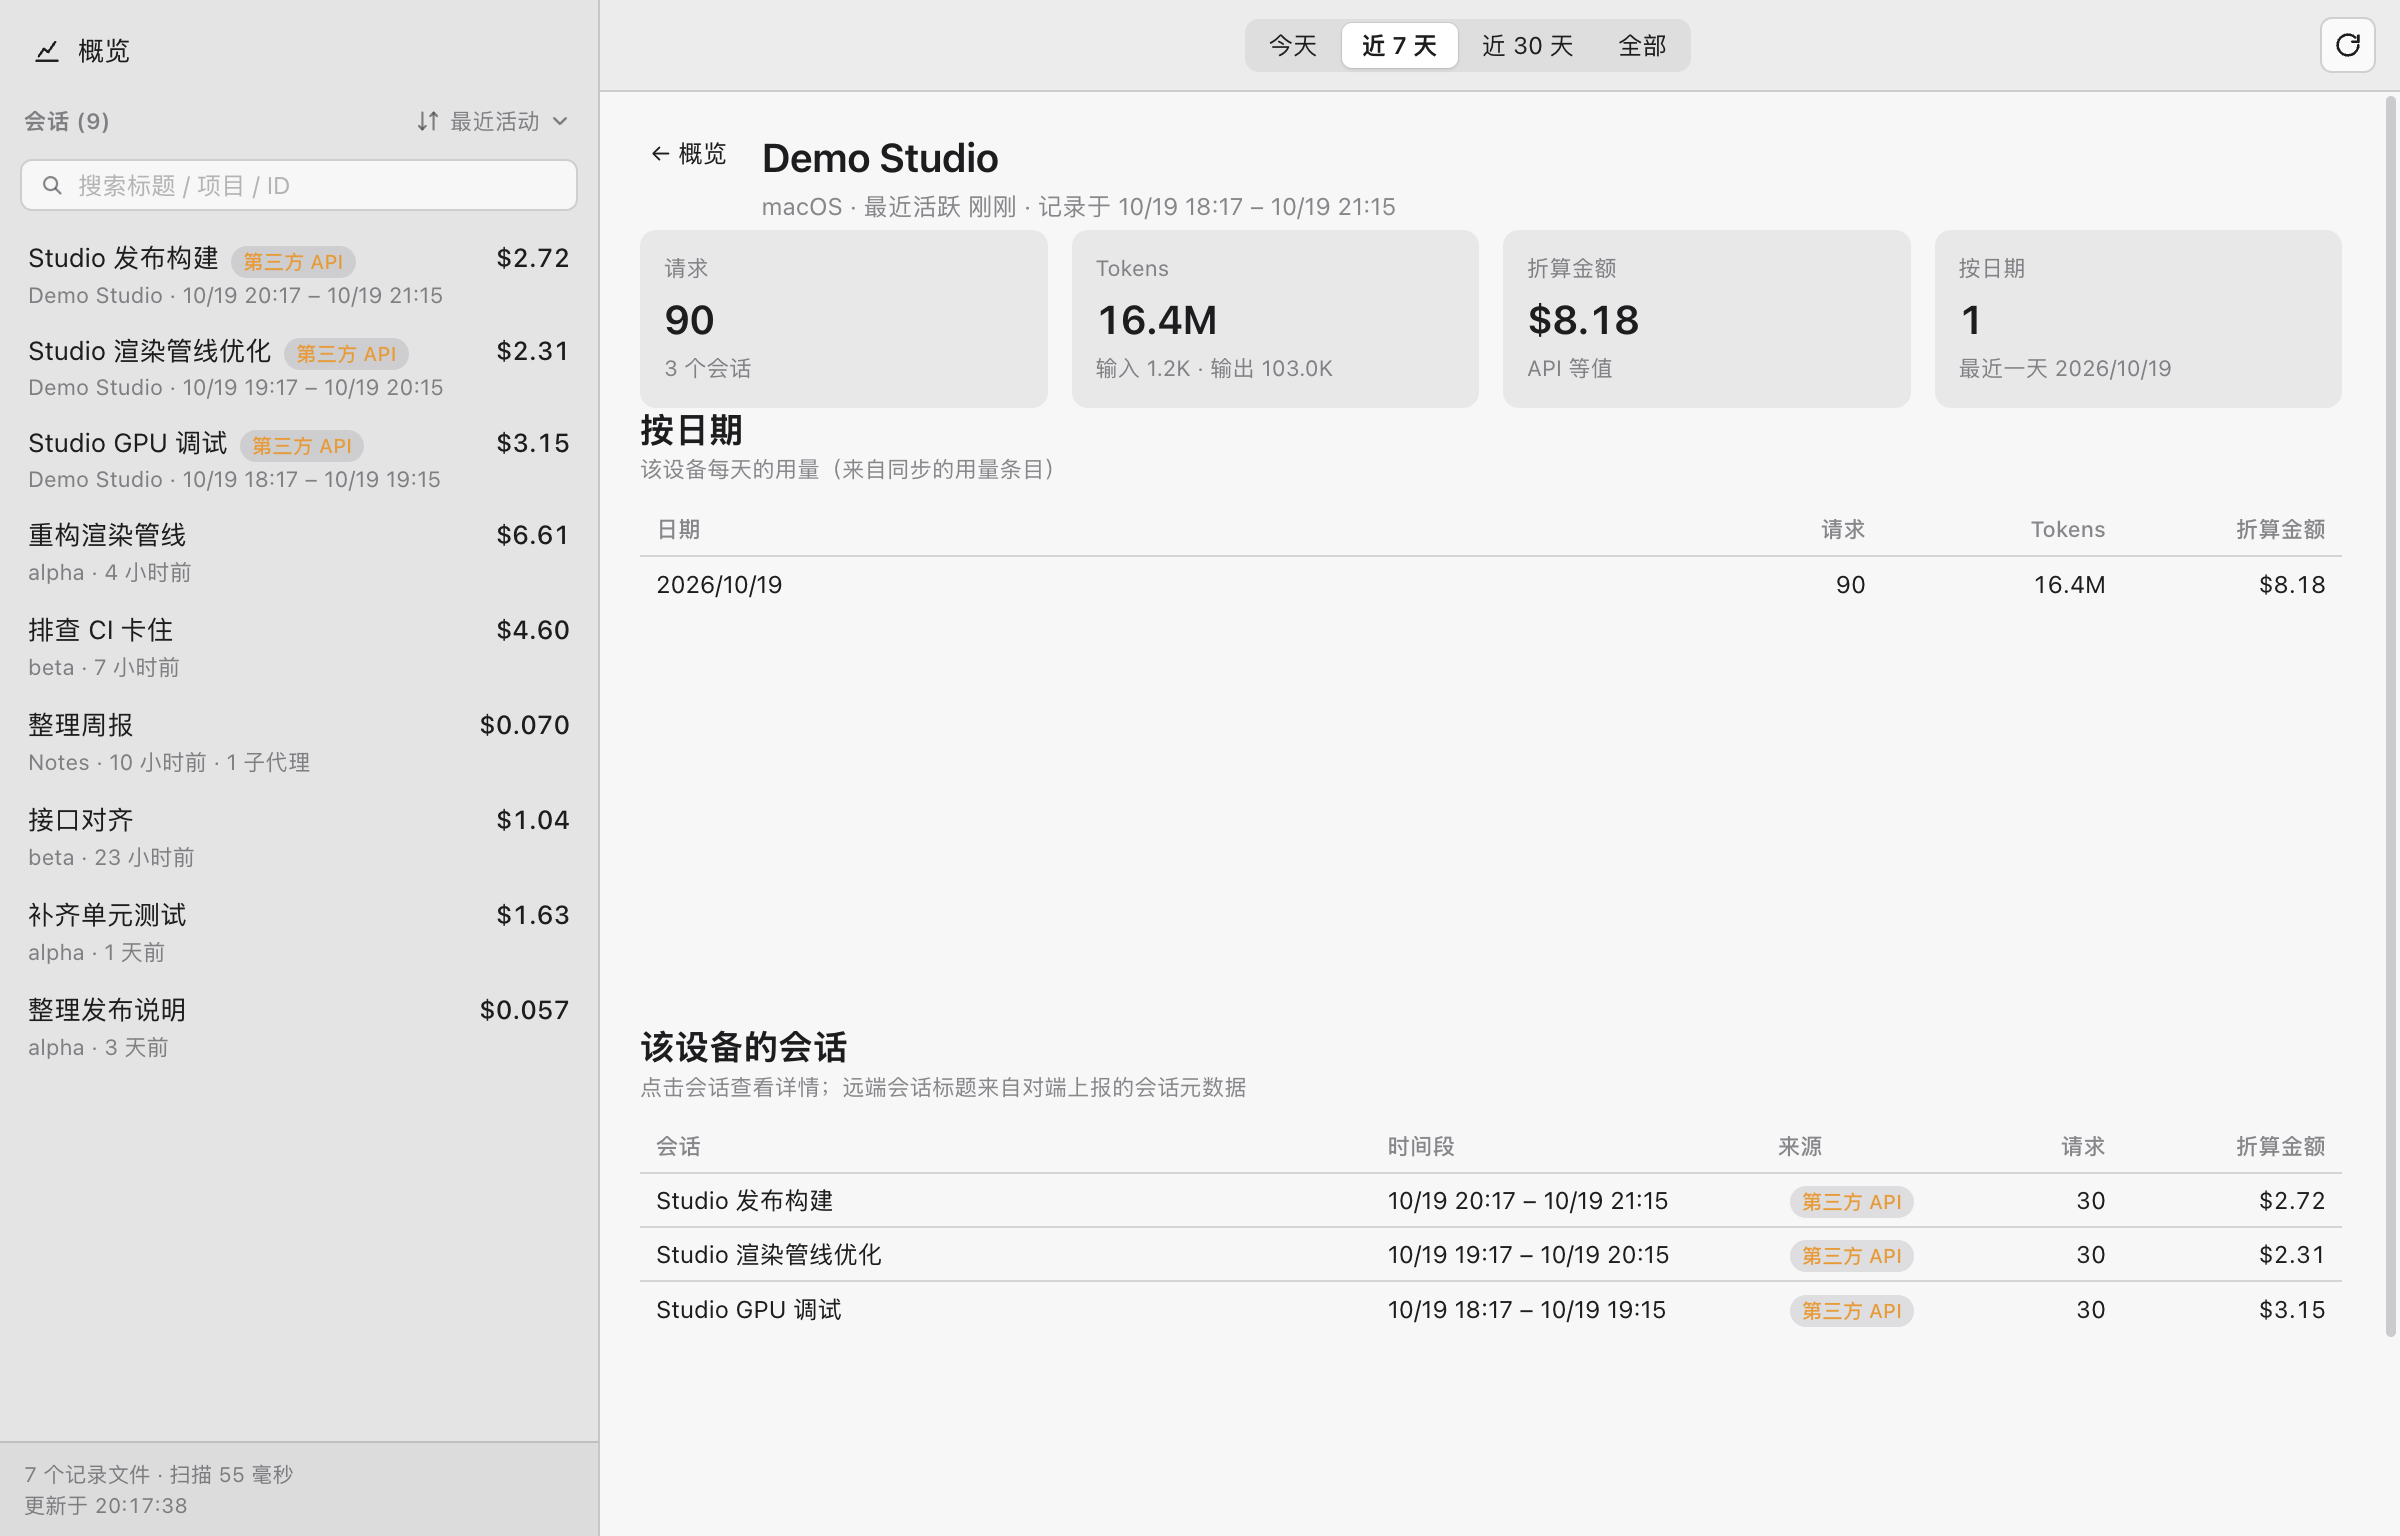
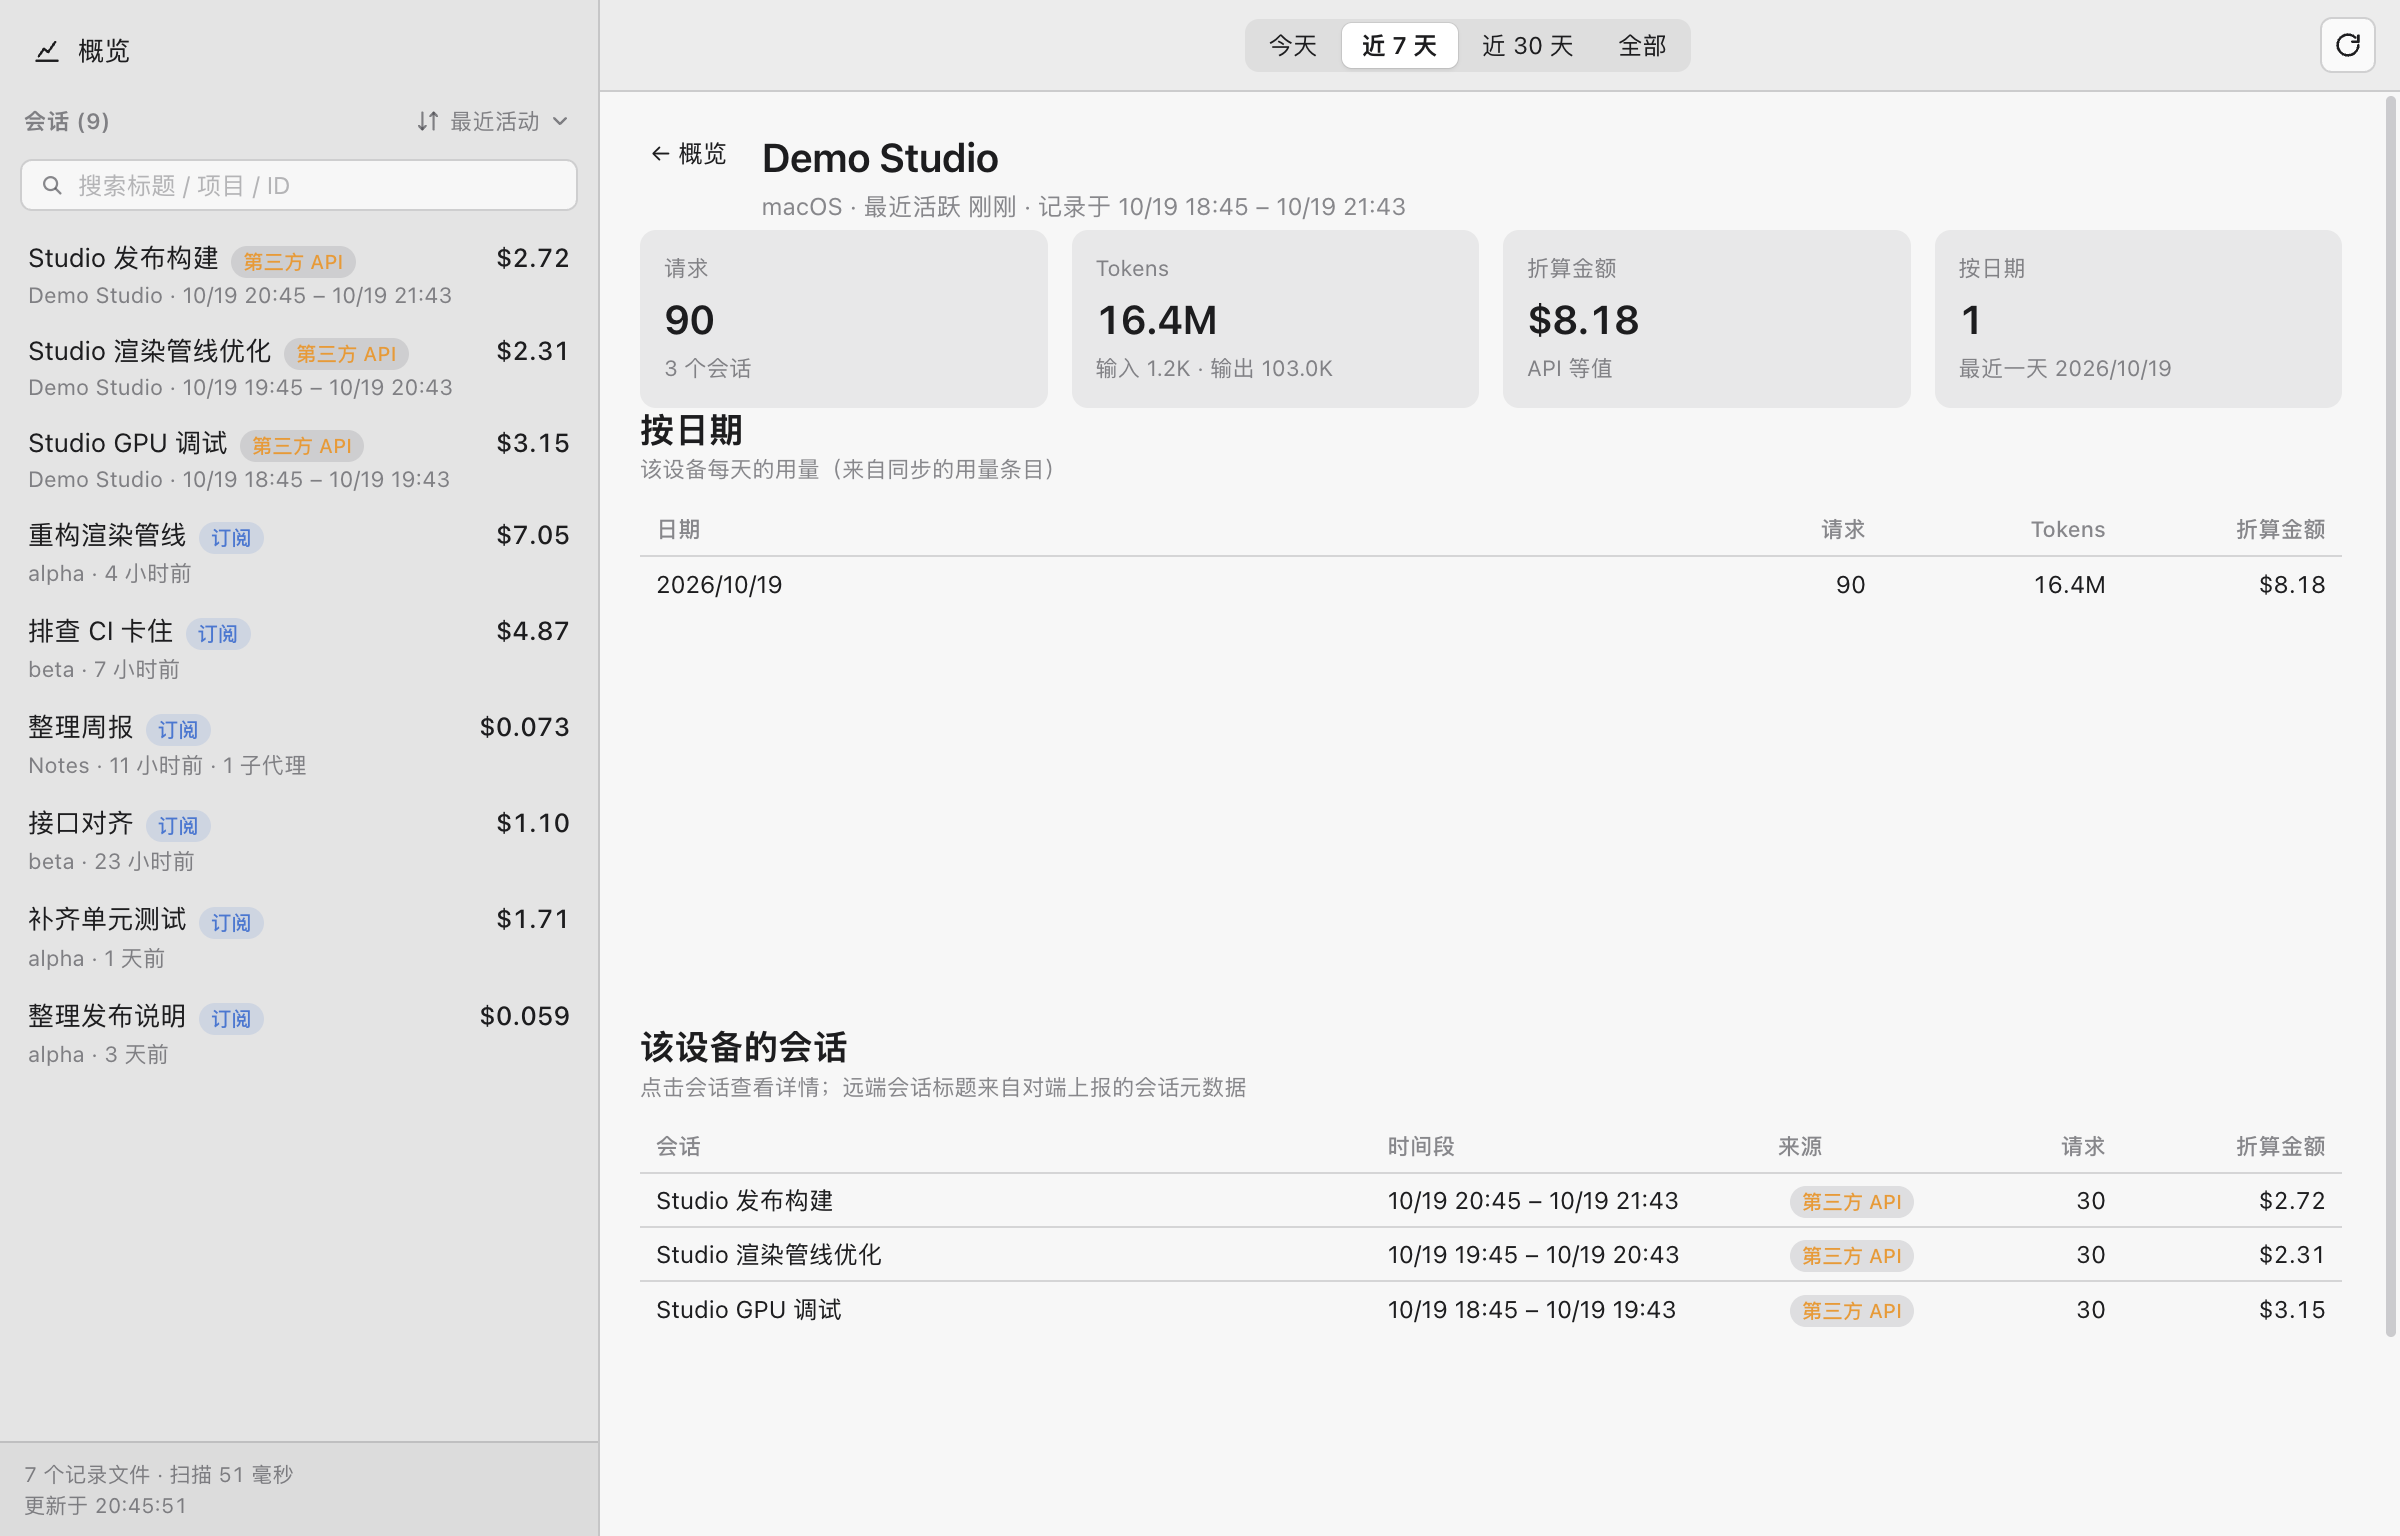
fix: restore missing authHints fields (2.4.0 scan crash) and local session authMode

diff --git a/scripts/demo-fixtures.ts b/scripts/demo-fixtures.ts
@@ -39,13 +39,14 @@ interface UsageShape {
 function usageFor(model: string, index: number, rnd: () => number): UsageShape {
   const big = model.includes("opus") ? 1.6 : model.includes("sonnet") ? 1 : 0.5;
   const cacheRead = Math.floor((80_000 + rnd() * 160_000) * big);
+  // Demo local sessions mimic the real subscription path: 1h prompt cache only.
   const cacheWrite = Math.floor((2_000 + rnd() * 9_000) * big);
-  const write1h = Math.floor(cacheWrite * 0.7);
+  const write1h = cacheWrite;
   return {
     input: 4 + Math.floor(rnd() * 20),
     output: 300 + Math.floor(rnd() * 1_400),
     cacheRead,
-    cacheWrite5m: cacheWrite - write1h,
+    cacheWrite5m: 0,
     cacheWrite1h: write1h,
   };
 }

diff --git a/apps/desktop/src/main/index.ts b/apps/desktop/src/main/index.ts
@@ -132,6 +132,9 @@ class AppController {
   private mergedCache:
     | { local: UsageSnapshot; remoteEntries: readonly unknown[]; deviceNames: ReadonlyMap<string, string>; snapshot: UsageSnapshot }
     | undefined;
+  /** Authoritative auth source per session, reported by the mod running inside Claude Code. */
+  private readonly authHints = new Map<string, BridgeAuthFingerprint & { at: number }>();
+  private authHintsSaveTimer: NodeJS.Timeout | undefined;
 
   constructor() {
     this.appVersion = readAppVersion();

diff --git a/packages/core/src/aggregation.ts b/packages/core/src/aggregation.ts
@@ -164,6 +164,7 @@ export function buildSnapshot(
       requestCount: entries.length,
       subagentCount: subagents.get(sessionId)?.size ?? 0,
       hasUnpricedRequests: unpriced,
+      authMode: classifySessionAuth(entries),
       ...(recordedCosts[sessionId] !== undefined ? { recordedCost: recordedCosts[sessionId] } : {})
     });
   }

diff --git a/docs/STATUS.md b/docs/STATUS.md
@@ -56,6 +56,12 @@
 - 仍无法区分的极端情况：中转注入 OAuth token 且保持官方 host（此时消耗的是该账号的订阅额度，
   需要比较 oauthAccount 身份才能判定「谁」的订阅，留作下一步）。
 
+## 2.4.1 修复（2026-10-19）
+
+- 修复 2.4.0 启动后首轮扫描报「Cannot read properties of undefined (reading 'size')」：
+  AppController 的 authHints 字段在补丁中漏加声明，applyAuthHints 访问 undefined；
+  已补上字段，并把启发式 authMode 写回本地会话（之前只有远端会话带分类）。
+
 ## 打包产物（npm run dist）
 
 - `dist/packages/CCUsage-<version>-mac-arm64.zip`（~122 MB）— macOS .app，electron-packager + ad-hoc codesign（已 `codesign --verify`）；解压后顶层为 CCUsage.app
